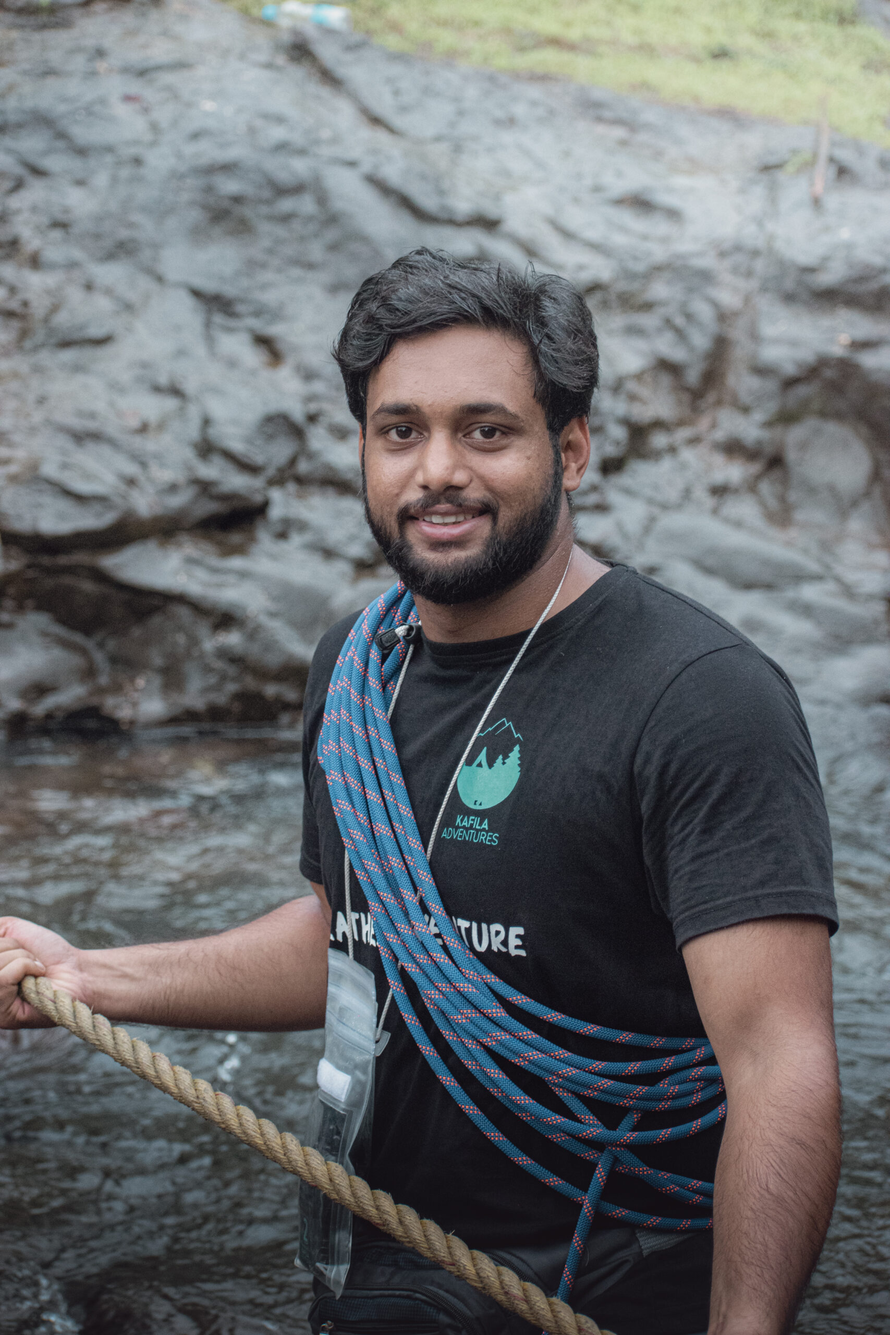
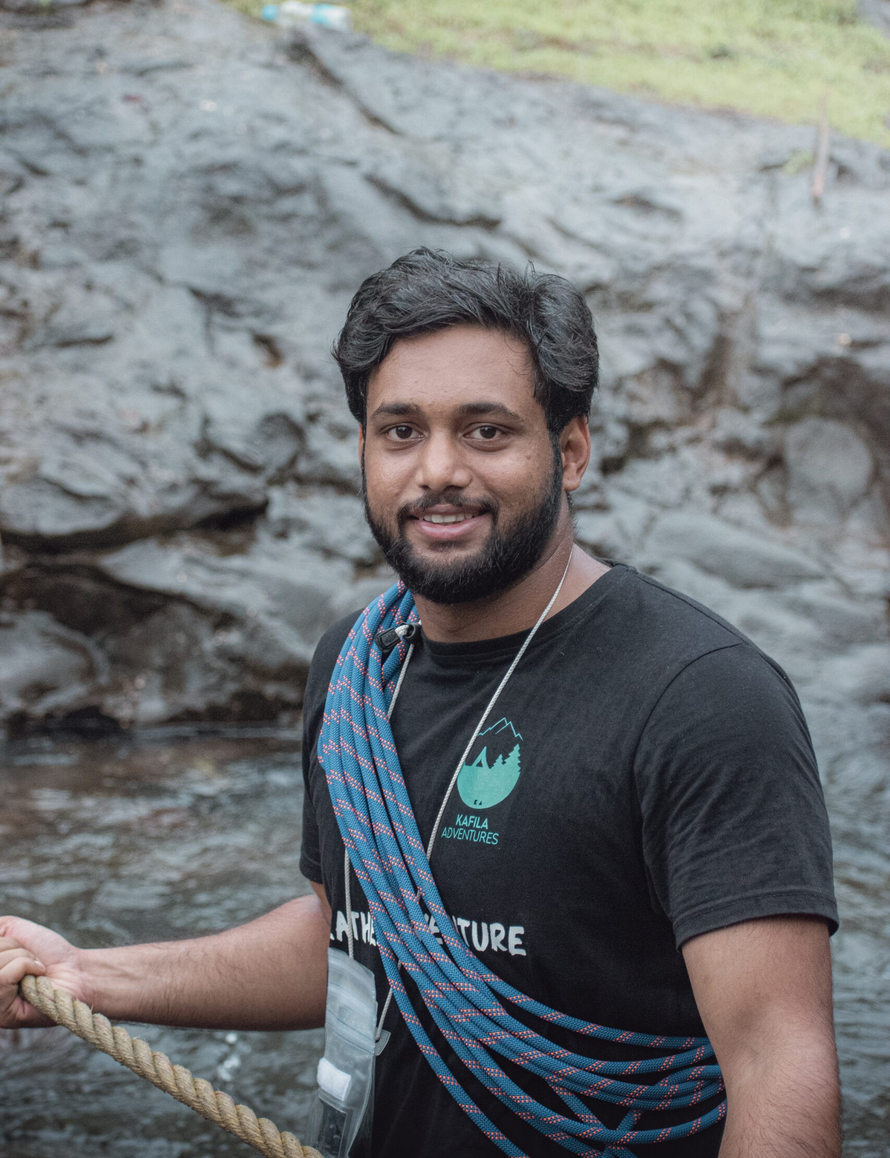
changes

diff --git a/src/pages/andharban.jsx b/src/pages/andharban.jsx
@@ -483,7 +483,7 @@ const AndharbanJungleTrek = () => {
                 {/* Left column - single large image */}
                 <div className="rounded-xl overflow-hidden shadow-lg aspect-[3/4] md:aspect-[3.5/4] group">
                   <img 
-                    src={A1} 
+                    src={Apara} 
                     alt="Mountain landscape with river" 
                     className="w-full h-full object-cover transition-transform duration-500 group-hover:scale-110"
                   />
